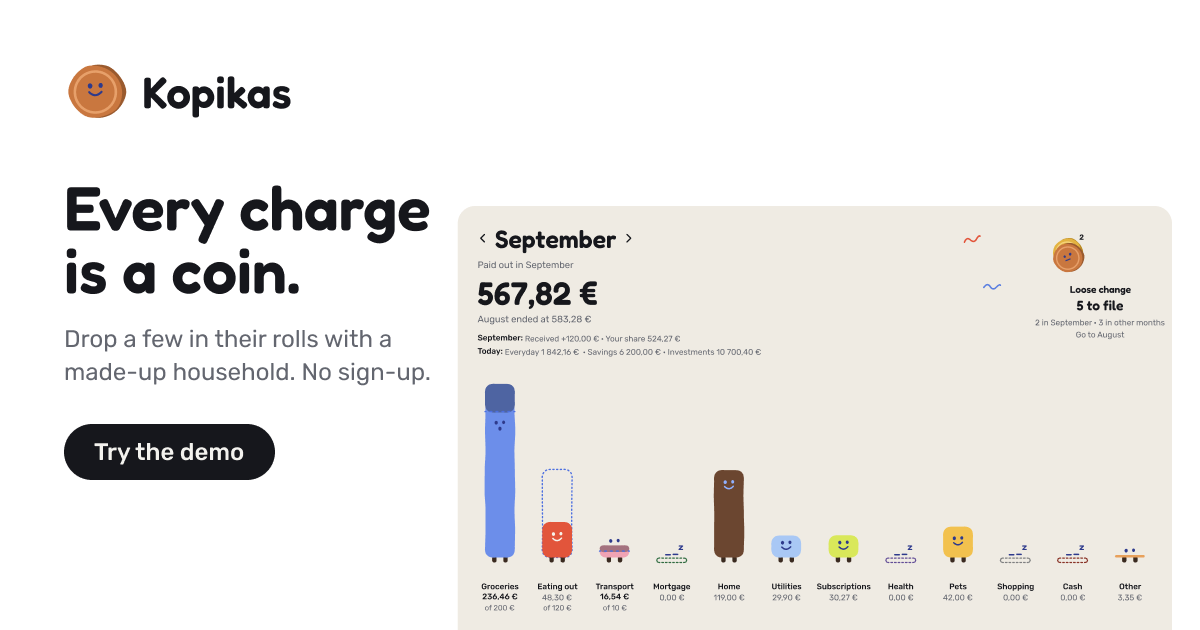
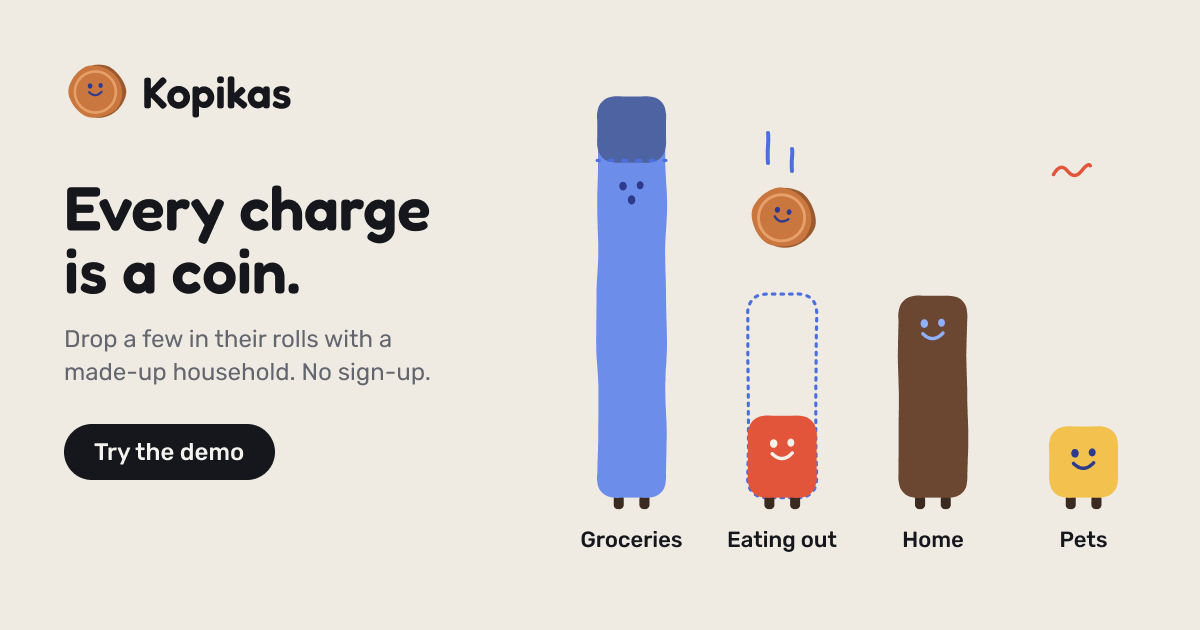
The demo's link card shows the characters, not a bar chart: Oat Paper all over so it has an edge on LinkedIn's white, four rolls big enough that their faces read in a phone's feed (Groceries over its limit, Eating out with room, Home, Pets) and one copper coin falling into Eating out; no month, tota

diff --git a/app/layout.tsx b/app/layout.tsx
@@ -15,11 +15,11 @@ import { coinFontVariables } from "@/components/coin-fonts";
 // search engines not to list it or follow its links. Crawling stays allowed (app/robots.ts), so
 // they can read this; a page they may not crawl can still be listed from a link elsewhere.
 // The demo is there to be shared: its link opens as a card (LinkedIn, Slack and the like), with the
-// picture drawn in the Figma kit (Decisions, "Demo tips", "LinkedIn preview"). The address is the one
-// Vercel gives the demo's project.
+// picture drawn in the Figma kit (Decisions, "Demo tips", "LinkedIn preview v2"). The address is the one
+// Vercel gives the demo's project. LinkedIn keeps a picture by its address, so ?v goes up with each new one.
 const DEMO_TITLE = "Kopikas · try the demo";
 const DEMO_LINE = "A money board where every charge is a coin. Drop a few in their rolls with a made-up household. No sign-up.";
-const DEMO_PICTURE = { url: "/demo-preview.png", width: 1200, height: 630, alt: "Kopikas: a month's charges as painted rolls, with a pile of coins still to file" };
+const DEMO_PICTURE = { url: "/demo-preview.png?v=2", width: 1200, height: 630, alt: "Kopikas: painted rolls for Groceries, Eating out, Home and Pets, with a coin dropping into Eating out" };
 export const metadata: Metadata = DEMO
   ? {
       metadataBase: new URL(process.env.VERCEL_PROJECT_PRODUCTION_URL ? `https://${process.env.VERCEL_PROJECT_PRODUCTION_URL}` : "http://localhost:3002"),

diff --git a/DESIGN.md b/DESIGN.md
@@ -373,7 +373,7 @@ A made-up household anyone can play with from a link (`NEXT_PUBLIC_KOPIKAS_DEMO=
 - **Tips, written on the paper:** no card and no pointer. Each tip is written straight onto the oat, in the board's voice: the step and Skip the tips in Muted Caption, a title in Fredoka 22 in crayon blue (a step lighter in dark, so it keeps its contrast), one line in Ink at 15px. A crayon ring goes round the thing to do and a crayon arrow runs from the words to it, both drawn as wobbling paths in crayon blue at 3px that draw themselves in once (simply there with reduced motion), like the marks on the stage. The words stand on a scrap of Oat Paper (16px corners) with the notice's edge, a 1px Ink ring at 10% and no shadow, so they read over anything and rows passing under them read as covered, not cut. The words keep the page's 16px margin, and on a phone they stay clear of the tab bar, going above their target when there's no room below.
 - **The tour:** each tip moves on when the visitor does what it says, never with a Next button for something they can do: pick up a coin; tap its roll; then Always, explained ("That's Always! All 5 from Pesumaja Puhas OÜ are filed now, and every one to come will be too", with Next tip) or asked for if the filing went without it; tap a roll for its year (Pooleks waits a moment while the year draws in); then Pooleks, ringed in the header, and on Pooleks itself the shared tab, ringed, with Finish the tour. On a phone the queue writes its first tips in its own lines: the ring circles the coin and its name while the line over the tiles says "This is a charge from the bank. Tap where it goes." in Fredoka crayon blue (the queue keeps asking "Where do I go?"); on the next coin the label beside the switch says "Try Always on this one", ringed with an arrow, and "Now tap where it goes" once it is on; a crayon line then underlines what the filing did (that line runs the queue's width, Undo at its end, too wide to ring). The progress line takes "Tip 1 of 4 · Skip the tips", and a tip for the Month tab comes before the roll's. Pooleks's tips wait at the foot of a phone's screen, clear of the month's name and total; while a tip waits there (the Month tab's too), the page gets as much more room at its foot, so every row can scroll clear of it. Tip words fade while what they point at is scrolled out of sight, and come back with it. Crayon words are #3D5FD0 (4.6:1 on Oat Paper); the strokes keep the lighter #4C6FE0. A screen reader hears each tip from one live region that stays. The tips come right after the bar in the page's order, so a keyboard reaches their buttons before the board's, and a tip's own button pressed from a keyboard leaves focus on the bar's tips button. Where the visitor is in the tour is kept in the browser.
 - **End card:** after the last tip, a dialog: the coin at 64px, "That's Kopikas" (Headline), a line on what a real bank behind it does, "How it was made" on Oat Paper (who made it, with what, and that the code is open), then See the code (Ink), Deploy your own and Keep playing (Mist), and "Works with LHV accounts in Estonia today" in Caption. On a phone the three pills stack; on a screen too short for it the card scrolls. Closed, it leaves focus on the bar's tips button.
-- **Link preview:** 1200 × 630, white: the coin and "Kopikas" in Fredoka, "Every charge is a coin." in Fredoka 62, a line on the made-up household, an Ink "Try the demo" pill, and the light stage coming in from the right and the foot.
+- **Link preview:** 1200 × 630, Oat Paper all over, so it has an edge on LinkedIn's white: the coin and "Kopikas" in Fredoka, "Every charge is a coin." in Fredoka 62, a line on the made-up household and an Ink "Try the demo" pill on the left; on the right four rolls at 104px (Groceries over its limit, Eating out with room under its dashed limit, Home, Pets) named in Rubik 22, and one copper coin falling into Eating out under two crayon strokes. Big enough that the faces read in a phone's feed; no month, total or figure lines, which no one can read at that size.
 
 ### Kopikas and the Speech Bubble (off the stage)
 Taken off the painted stage on 2026-10-15, with his bubble: the stage reads better with the rolls and the loose coins as the only characters. The coin beside the wordmark stays. His eight poses remain in the code, drawn (their Lottie file was removed on 2026-10-18, since it only ever played on the painted stage), and `/coins/kopikas` shows them; the bubble went with the goofy look's prototype on 2026-10-19 and lives on in git history. Neither is to be put back on the painted stage without a new decision.
